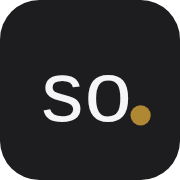
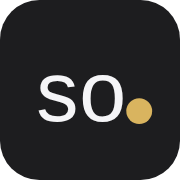
add: 会社ロゴ(録画ボタン)
社名の「.」を塗り円にして、録画ボタンの ● として読ませる。
撮影しない会社が録画の記号を持つ、という捻れがそのまま事業の説明になる。

- ヘッダー・フッターの「.」を CSS の図形(.logo-dot)に置き換え
  文字ではないので 16px まで縮めても潰れない
- 黒いセクションに重なったときは点を明るい金に振る
- ファビコン・apple-touch-icon・OGP 画像を新しいマークで作り直し
- 名刺・印刷用に logo.svg / logo-dark.svg を追加
  文字はアウトライン化してあるのでフォントが無くても同じ形で出る
- SVG と CSS の比率がズレたら落ちるよう e2e に固定

Claude-Session: https://claude.ai/code/session_01G6zCorxV6ds2UKWpb8gnyK

Changed region(s): [[0.1944, 0.4167, 0.8611, 0.7222]]

diff --git a/assets/site.css b/assets/site.css
@@ -116,6 +116,21 @@ h1, h2, h3, .display, .headline, .subhead { text-wrap: balance; }
 .pill-ghost { border-color: rgba(0,0,0,0.2); color: var(--ink); }
 .pill-ghost:hover { border-color: var(--ink); transform: translateY(-1px); }
 
+/* ---------- Logo ---------- */
+/* 社名の「.」を録画ボタンの ● として描く。
+   サイトの見出しはすべて句点で終わるので、その句点がそのままマークになる。
+   文字ではなく図形にしてあるぶん、小さくしても潰れない */
+#nav .logo, .f-logo { display: inline-flex; align-items: baseline; }
+.logo-dot {
+    flex: none;
+    width: 0.235em;
+    height: 0.235em;
+    margin-left: 0.075em;
+    border-radius: 50%;
+    background: var(--accent);
+    transform: translateY(-0.01em);
+}
+
 /* ---------- Nav ---------- */
 .progress {
     position: fixed;
@@ -147,6 +162,7 @@ h1, h2, h3, .display, .headline, .subhead { text-wrap: balance; }
 /* 黒いセクションに重なったときはヘッダーを反転させる */
 #nav.on-dark { background: rgba(0, 0, 0, 0.6); border-bottom-color: rgba(255,255,255,0.12); }
 #nav.on-dark .logo { color: #f5f5f7; }
+#nav.on-dark .logo-dot { background: #d9b45f; }
 #nav.on-dark .nav-item { color: rgba(245,245,247,0.66); }
 #nav.on-dark .nav-item:hover, #nav.on-dark .nav-item.active,
 #nav.on-dark .nav-trigger[aria-expanded="true"] { color: #fff; }
@@ -154,7 +170,6 @@ h1, h2, h3, .display, .headline, .subhead { text-wrap: balance; }
 #nav.on-dark .nav-cta:hover { background: var(--accent); color: #fff; }
 #nav.on-dark .burger span { background: #f5f5f7; }
 #nav .logo { flex: none; font-size: 1.24rem; font-weight: 500; letter-spacing: 0.01em; }
-#nav .logo span { color: var(--accent-ink); }
 .nav-main { display: flex; align-items: center; gap: 30px; }
 .nav-item {
     position: relative;
@@ -1232,7 +1247,6 @@ footer { background: var(--bg-alt); border-top: 1px solid var(--line); }
     gap: 44px;
 }
 .f-logo { font-size: 1.4rem; font-weight: 500; letter-spacing: 0.01em; }
-.f-logo span { color: var(--accent-ink); }
 .f-tagline { margin: 12px 0 0; font-size: 1rem; font-weight: 400; letter-spacing: 0.01em; }
 .f-note { margin: 10px 0 0; font-size: 0.89rem; color: var(--ink-dim); max-width: 300px; }
 .f-cta { margin-top: 22px; }

diff --git a/about.html b/about.html
@@ -32,7 +32,7 @@
     <div class="progress" id="progress"></div>
 
     <nav id="nav">
-        <a href="index.html" class="logo">so<span>.</span></a>
+        <a href="index.html" class="logo" aria-label="so.">so<i class="logo-dot" aria-hidden="true"></i></a>
 
         <!-- 下層ページなので、導線はトップの主要セクションへ戻すだけにする -->
         <div class="nav-main">
@@ -115,7 +115,7 @@
     <footer>
         <div class="footer-inner">
             <div class="f-brand">
-                <a href="index.html" class="f-logo">so<span>.</span></a>
+                <a href="index.html" class="f-logo" aria-label="so.">so<i class="logo-dot" aria-hidden="true"></i></a>
                 <p class="f-tagline">撮影しない、映像制作。</p>
                 <p class="f-note">AI で動画をつくる会社です。出演者の手配も、撮影日の調整も必要ありません。</p>
                 <a href="#contact" class="pill pill-solid f-cta">相談してみる</a>

diff --git a/index.html b/index.html
@@ -144,7 +144,7 @@
     <div class="progress" id="progress"></div>
 
     <nav id="nav">
-        <a href="#top" class="logo">so<span>.</span></a>
+        <a href="#top" class="logo" aria-label="so.">so<i class="logo-dot" aria-hidden="true"></i></a>
 
         <!-- 主要導線は4つに絞り、ジャンルはドロップダウンに格納する -->
         <div class="nav-main">
@@ -607,7 +607,7 @@
     <footer>
         <div class="footer-inner">
             <div class="f-brand">
-                <a href="#top" class="f-logo">so<span>.</span></a>
+                <a href="#top" class="f-logo" aria-label="so.">so<i class="logo-dot" aria-hidden="true"></i></a>
                 <p class="f-tagline">撮影しない、映像制作。</p>
                 <p class="f-note">AI で動画をつくる会社です。出演者の手配も、撮影日の調整も必要ありません。</p>
                 <a href="#contact" class="pill pill-solid f-cta">相談してみる</a>
